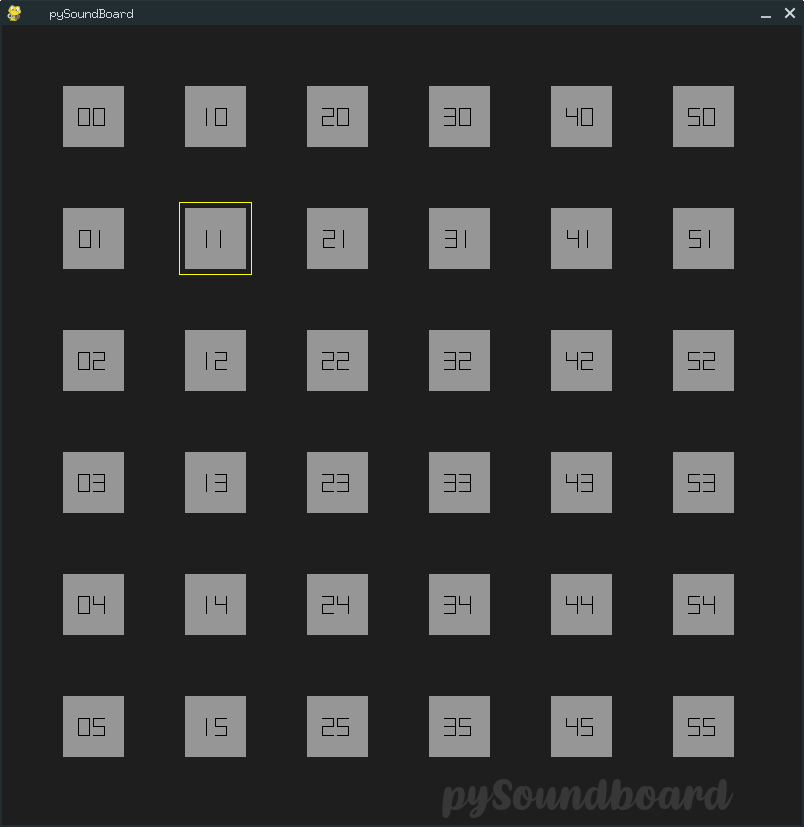
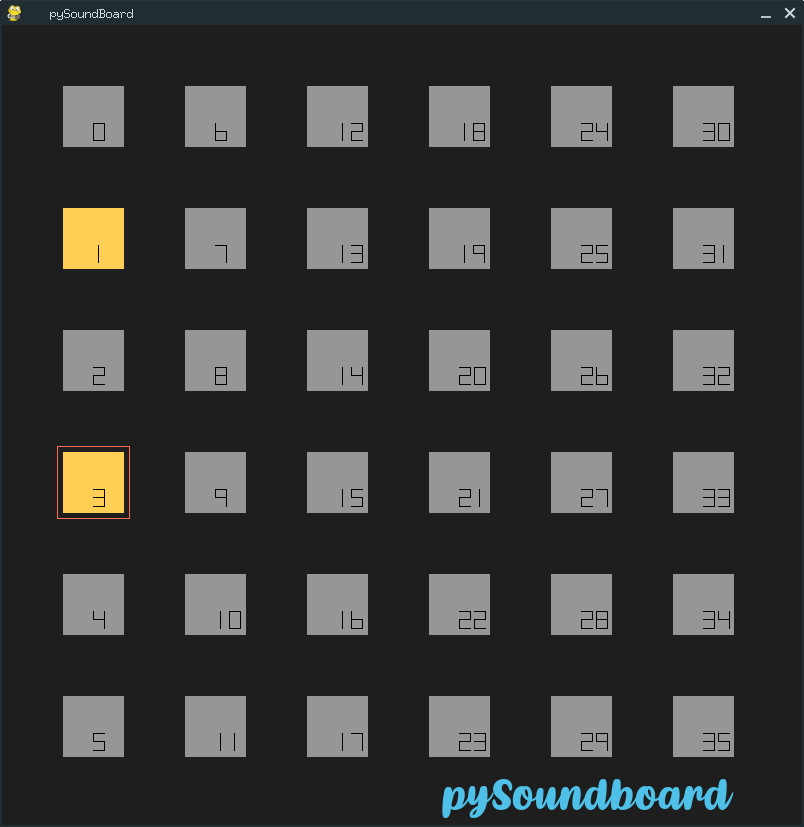
independent channels and new colour scheme

diff --git a/src/soundboard.py b/src/soundboard.py
@@ -13,6 +13,9 @@ spacing = int(size[0]/(1+2*rows))
 pygame.mixer.pre_init(44100, -16, 1, 512)  # fixes delay in play
 pygame.init()
 
+# init channels
+pygame.mixer.set_num_channels(rows**2)
+
 # set screen width/height and caption
 screen = pygame.display.set_mode(size)  # , pygame.NOFRAME
 pygame.display.set_caption('pySoundBoard')
@@ -44,14 +47,15 @@ def makebuttons():
                 'column': i,
                 'row': j,
                 'text': 'empty',
+                'soundchannel': pygame.mixer.Channel(n),
                 'soundobj': pygame.mixer.Sound(paths[n]),
                 'coord': (spacing*(2*i+1), spacing*(2*j+1)),
                 'size': (spacing, spacing),
                 'rectobj': pygame.Rect(spacing*(2*i+1), spacing*(2*j+1), spacing, spacing),
-                'textobj': fontObj.render(str(i)+str(j), False, (0, 0, 0)),
+                'textobj': fontObj.render(str(n), False, (0, 0, 0)),
                 'textcoords': (spacing*(2*i+1.5), spacing*(2*j+1.5)),
                 'color': (150, 150, 150),
-                'bordercolor': (255, 255, 0),
+                'bordercolor': (252, 110, 81),
                 'bordersize': (spacing+12, spacing+12),
                 'loop': False
             })
@@ -61,7 +65,7 @@ def makebuttons():
 
 def makelogo():
     # draw logo according to the size of the buttons
-    logo = fontLogo.render('pySoundboard', True, (55, 55, 55))
+    logo = fontLogo.render('pySoundboard', True, (79, 193, 233))
     logoRect = logo.get_rect()
     logoRect.midright = (spacing*(2*rows), size[1]-spacing/2)
     return (logo, logoRect)
@@ -104,12 +108,19 @@ while done == False:
             pos = pygame.mouse.get_pos()
             for elem in data:
                 if elem['rectobj'].collidepoint(pos):
-                    elem['soundobj'].play()
-                    pygame.draw.rect(screen, (255, 100, 0), (elem['coord'][0]-6,
-                                                             elem['coord'][1]-6, elem['bordersize'][0], elem['bordersize'][1]), 5)
+                    if elem['soundchannel'].get_busy():
+                        elem['soundchannel'].stop()
+                    else:
+                        elem['soundchannel'].play(elem['soundobj'])
+                        pygame.draw.rect(screen, (237, 85, 101), (elem['coord'][0]-6,
+                                                                  elem['coord'][1]-6, elem['bordersize'][0], elem['bordersize'][1]), 5)
     # write game logic here
     pos = pygame.mouse.get_pos()
     for elem in data:
+        if elem['soundchannel'].get_busy():
+            elem['color'] = (255, 206, 84)
+        else:
+            elem['color'] = (150, 150, 150)
         if elem['rectobj'].collidepoint(pos):
             pygame.draw.rect(screen, elem['bordercolor'], (elem['coord'][0]-6,
                                                            elem['coord'][1]-6, elem['bordersize'][0], elem['bordersize'][1]), 1)

diff --git a/README.md b/README.md
@@ -10,7 +10,8 @@ The goal is to create something similar to [Farrago](https://rogueamoeba.com/far
 ![](screenshots/screenshot.png)
 
 ## Usage
-* `P` toggle Pause/Unpause
+* `Click` toggle Play/Stop
+* `P` toggle Pause/Unpause all sounds
 * `S` Stop all sounds
 * `F` Fadeout all sounds (3 seconds)
 * `ESC` Exit
